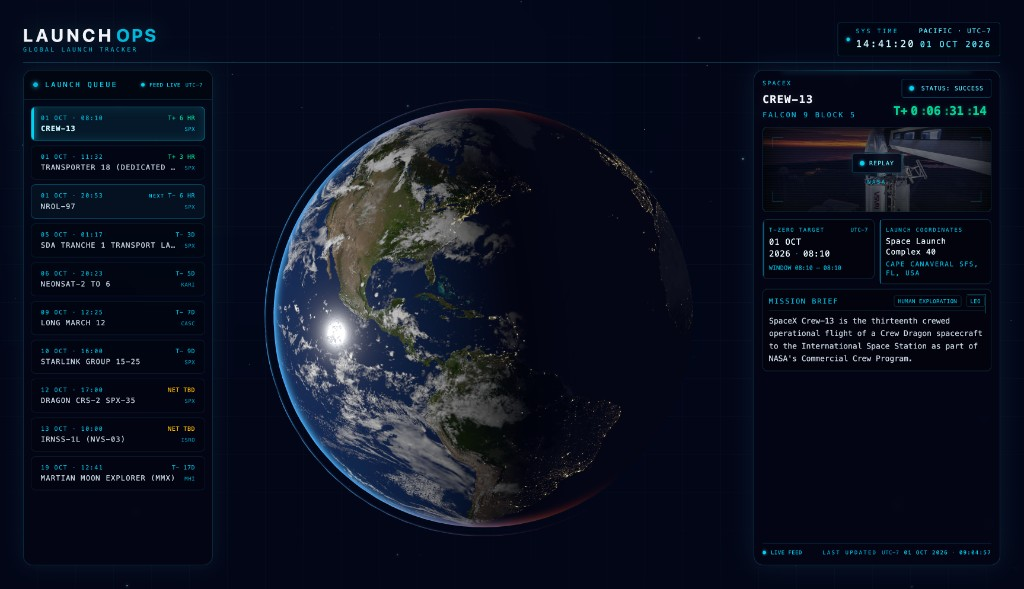
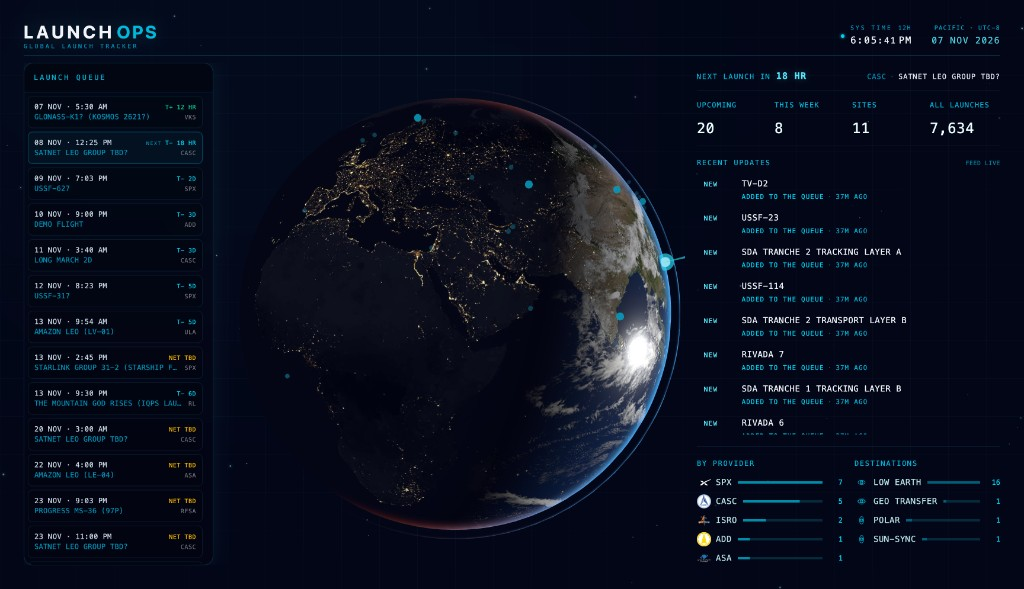
docs: refresh README console screenshot

diff --git a/README.md b/README.md
@@ -2,7 +2,7 @@
 
 A real-time dashboard for tracking upcoming rocket launches.
 
-![LaunchOps console showing the launch queue, day-and-night Earth, and selected mission](docs/console.jpg)
+![LaunchOps console showing the launch queue, day-and-night Earth, and overview stats](docs/console.jpg)
 
 LaunchOps combines launch schedules, mission details, local countdowns, webcasts, and a launch-site catalog in a responsive mission-control interface. Data comes from [The Space Devs Launch Library](https://thespacedevs.com/), is cached through Redis and MongoDB, and reaches the browser through REST and Socket.IO.
 
